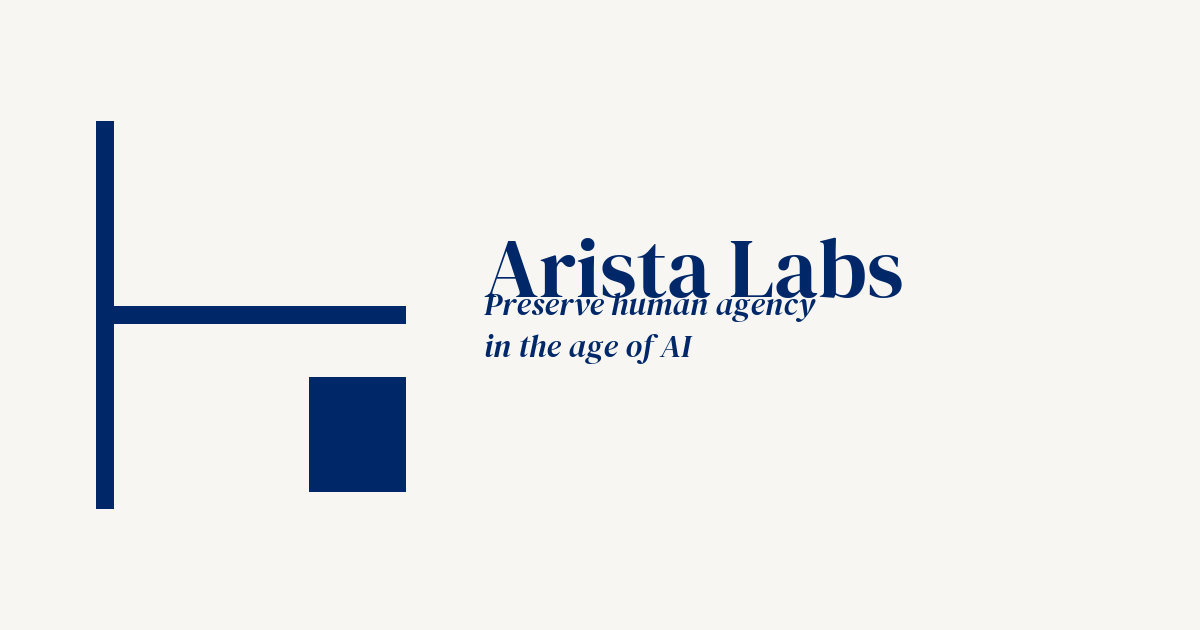
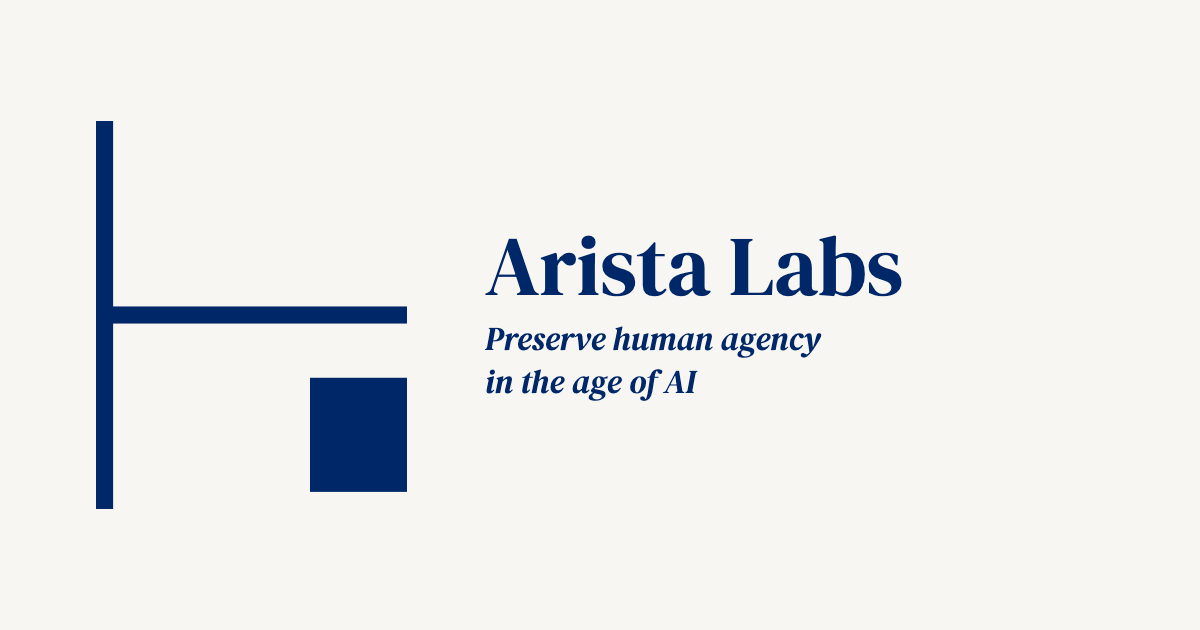
Separate the share-card wordmark from its tagline.
The italic line was drawing through the bottom of Arista Labs. Give it a clear gap and cache-bust the image so X and LinkedIn fetch the new card.

Changed region(s): [[0.4008, 0.3921, 0.74, 0.6333]]

diff --git a/guiding-principles.html b/guiding-principles.html
@@ -11,12 +11,12 @@
   <meta property="og:type" content="website" />
   <meta property="og:url" content="https://aristalabs.ai/guiding-principles.html" />
   <link rel="canonical" href="https://aristalabs.ai/guiding-principles.html" />
-  <meta property="og:image" content="https://aristalabs.ai/assets/og-card.png" />
+  <meta property="og:image" content="https://aristalabs.ai/assets/og-card.png?v=20261027" />
   <meta property="og:image:width" content="1200" />
   <meta property="og:image:height" content="630" />
   <meta property="og:image:alt" content="Arista Labs — preserve human agency in the age of AI" />
   <meta name="twitter:card" content="summary_large_image" />
-  <meta name="twitter:image" content="https://aristalabs.ai/assets/og-card.png" />
+  <meta name="twitter:image" content="https://aristalabs.ai/assets/og-card.png?v=20261027" />
   <script async src="https://plausible.io/js/pa-ny3cas2_OEgjYzkHGT2aN.js"></script>
   <script>
     window.plausible=window.plausible||function(){(plausible.q=plausible.q||[]).push(arguments)},plausible.init=plausible.init||function(i){plausible.o=i||{}};

diff --git a/manifesto.html b/manifesto.html
@@ -11,12 +11,12 @@
   <meta property="og:type" content="website" />
   <meta property="og:url" content="https://aristalabs.ai/manifesto.html" />
   <link rel="canonical" href="https://aristalabs.ai/manifesto.html" />
-  <meta property="og:image" content="https://aristalabs.ai/assets/og-card.png" />
+  <meta property="og:image" content="https://aristalabs.ai/assets/og-card.png?v=20261027" />
   <meta property="og:image:width" content="1200" />
   <meta property="og:image:height" content="630" />
   <meta property="og:image:alt" content="Arista Labs — preserve human agency in the age of AI" />
   <meta name="twitter:card" content="summary_large_image" />
-  <meta name="twitter:image" content="https://aristalabs.ai/assets/og-card.png" />
+  <meta name="twitter:image" content="https://aristalabs.ai/assets/og-card.png?v=20261027" />
   <script async src="https://plausible.io/js/pa-ny3cas2_OEgjYzkHGT2aN.js"></script>
   <script>
     window.plausible=window.plausible||function(){(plausible.q=plausible.q||[]).push(arguments)},plausible.init=plausible.init||function(i){plausible.o=i||{}};

diff --git a/contact.html b/contact.html
@@ -11,12 +11,12 @@
   <meta property="og:type" content="website" />
   <meta property="og:url" content="https://aristalabs.ai/contact.html" />
   <link rel="canonical" href="https://aristalabs.ai/contact.html" />
-  <meta property="og:image" content="https://aristalabs.ai/assets/og-card.png" />
+  <meta property="og:image" content="https://aristalabs.ai/assets/og-card.png?v=20261027" />
   <meta property="og:image:width" content="1200" />
   <meta property="og:image:height" content="630" />
   <meta property="og:image:alt" content="Arista Labs — preserve human agency in the age of AI" />
   <meta name="twitter:card" content="summary_large_image" />
-  <meta name="twitter:image" content="https://aristalabs.ai/assets/og-card.png" />
+  <meta name="twitter:image" content="https://aristalabs.ai/assets/og-card.png?v=20261027" />
   <script async src="https://plausible.io/js/pa-ny3cas2_OEgjYzkHGT2aN.js"></script>
   <script>
     window.plausible=window.plausible||function(){(plausible.q=plausible.q||[]).push(arguments)},plausible.init=plausible.init||function(i){plausible.o=i||{}};

diff --git a/index.html b/index.html
@@ -11,12 +11,12 @@
   <meta property="og:type" content="website" />
   <meta property="og:url" content="https://aristalabs.ai/" />
   <link rel="canonical" href="https://aristalabs.ai/" />
-  <meta property="og:image" content="https://aristalabs.ai/assets/og-card.png" />
+  <meta property="og:image" content="https://aristalabs.ai/assets/og-card.png?v=20261027" />
   <meta property="og:image:width" content="1200" />
   <meta property="og:image:height" content="630" />
   <meta property="og:image:alt" content="Arista Labs — preserve human agency in the age of AI" />
   <meta name="twitter:card" content="summary_large_image" />
-  <meta name="twitter:image" content="https://aristalabs.ai/assets/og-card.png" />
+  <meta name="twitter:image" content="https://aristalabs.ai/assets/og-card.png?v=20261027" />
   <script async src="https://plausible.io/js/pa-ny3cas2_OEgjYzkHGT2aN.js"></script>
   <script>
     window.plausible=window.plausible||function(){(plausible.q=plausible.q||[]).push(arguments)},plausible.init=plausible.init||function(i){plausible.o=i||{}};
